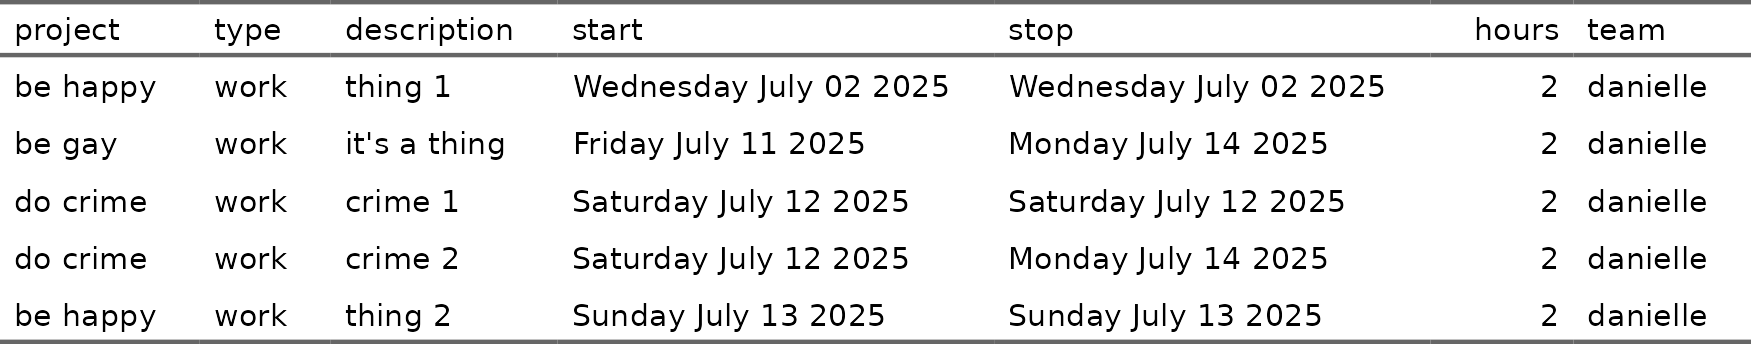
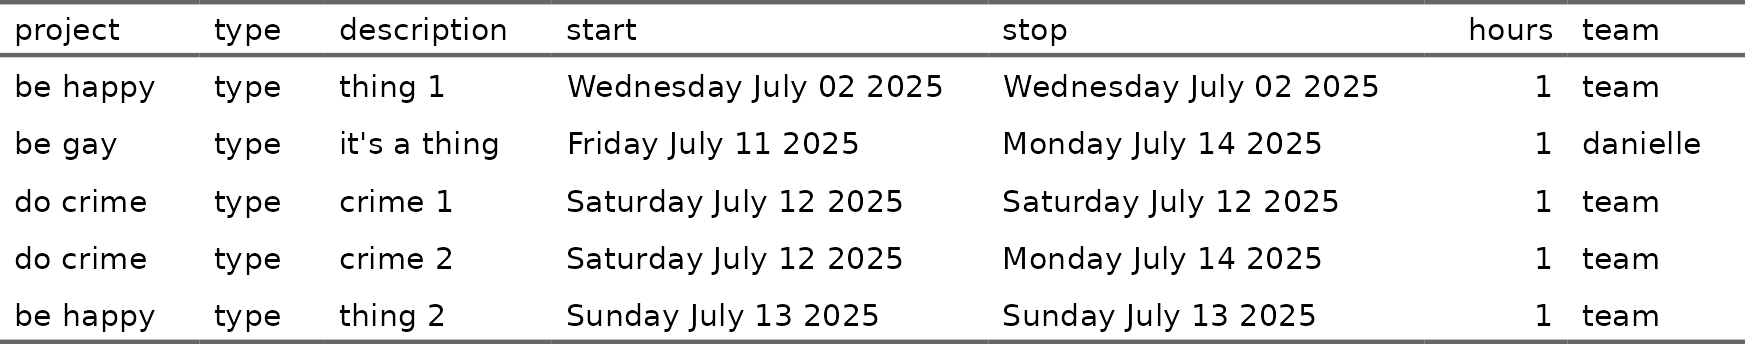
updates readme

diff --git a/README.md b/README.md
@@ -30,7 +30,7 @@ Creating a calendar and adding tasks to projects:
 library(calendario)
 
 # initialise an empty calendar
-cal <- Calendario$new()
+cal <- cal_new()
 cal
 #> <Calendario object [0 projects]>
 
@@ -75,11 +75,11 @@ cal$get_tasks()
 #> # A tibble: 5 × 7
 #>   project  type  description  start      stop       hours team    
 #>   <chr>    <chr> <chr>        <date>     <date>     <dbl> <chr>   
-#> 1 be gay   work  it's a thing 2025-07-11 2025-07-14     2 danielle
-#> 2 do crime work  crime 1      2025-07-12 2025-07-12     2 danielle
-#> 3 do crime work  crime 2      2025-07-12 2025-07-14     2 danielle
-#> 4 be happy work  thing 1      2025-07-02 2025-07-02     2 danielle
-#> 5 be happy work  thing 2      2025-07-13 2025-07-13     2 danielle
+#> 1 be gay   type  it's a thing 2025-07-11 2025-07-14     1 danielle
+#> 2 do crime type  crime 1      2025-07-12 2025-07-12     1 team    
+#> 3 do crime type  crime 2      2025-07-12 2025-07-14     1 team    
+#> 4 be happy type  thing 1      2025-07-02 2025-07-02     1 team    
+#> 5 be happy type  thing 2      2025-07-13 2025-07-13     1 team
 
 # showing tasks returns a flextable
 cal$show_tasks()
@@ -105,9 +105,9 @@ cal$get_calendar("1 jun", "11 aug")
 #> # A tibble: 5 × 7
 #>   Month Days    Mon   Tue   Wed   Thu   Fri
 #>   <ord> <chr> <dbl> <dbl> <dbl> <dbl> <dbl>
-#> 1 Jul   1-4      NA     0     2     0     0
-#> 2 Jul   7-11      0     0     0     0     2
-#> 3 Jul   14-18     4     0     0     0     0
+#> 1 Jul   1-4      NA     0     1     0     0
+#> 2 Jul   7-11      0     0     0     0     1
+#> 3 Jul   14-18     2     0     0     0     0
 #> 4 Jul   21-25     0     0     0     0     0
 #> 5 Jul   28-31     0     0     0     0    NA
 #> 
